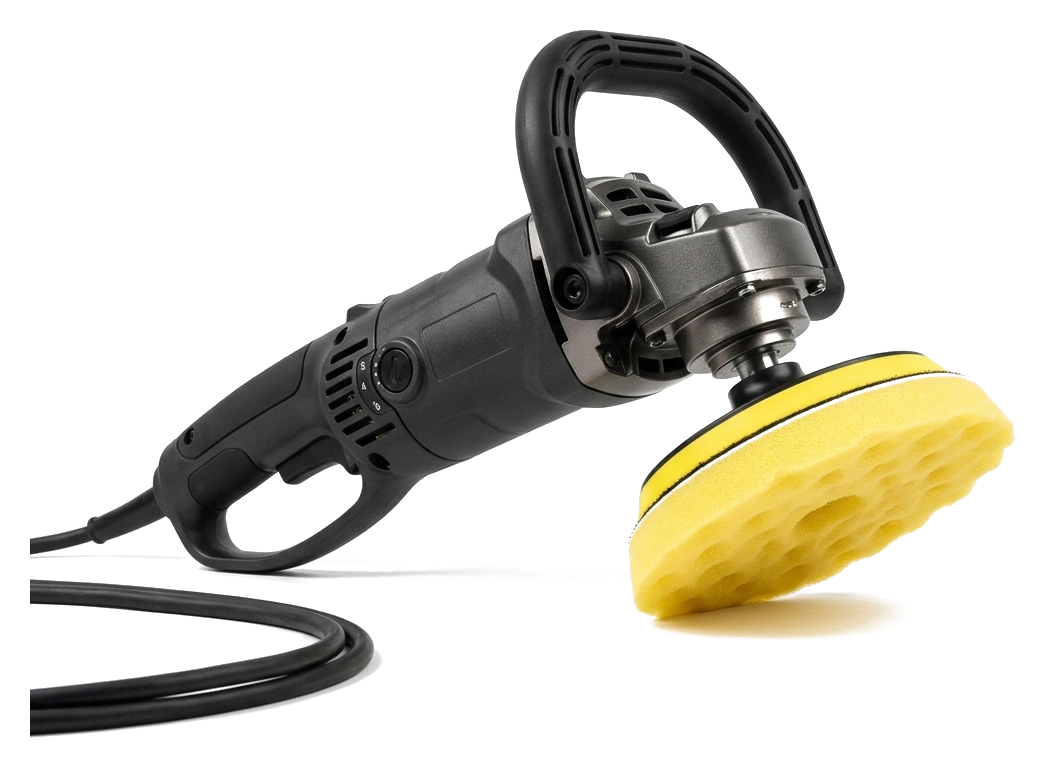
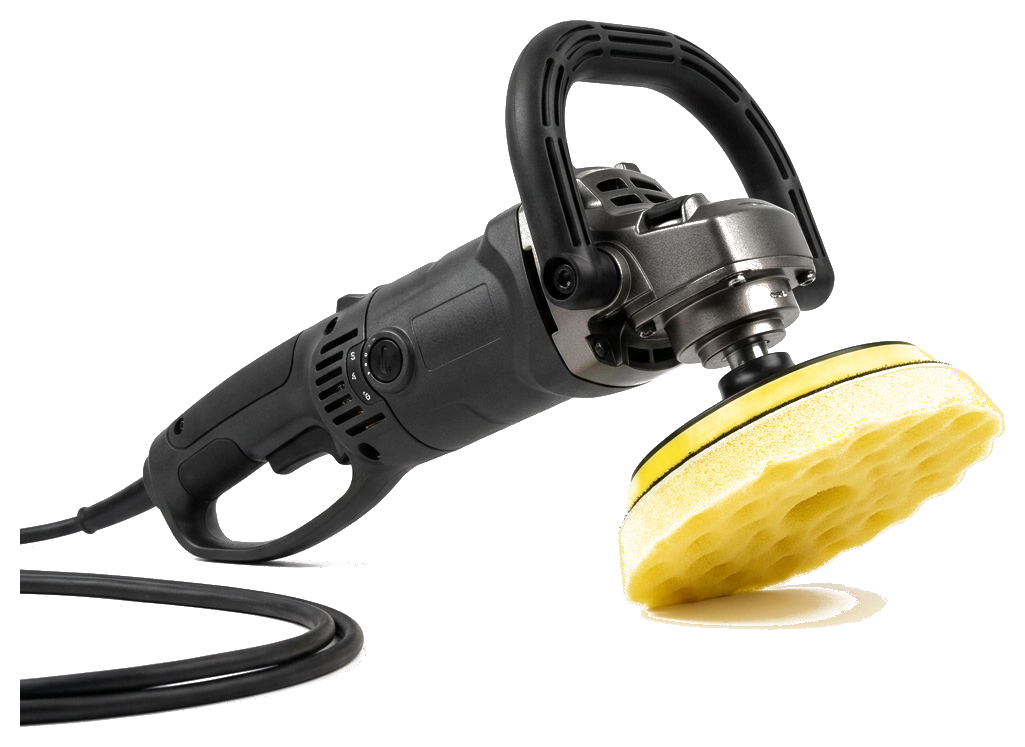
fix: render and isolate travelling process object

diff --git a/src/sections/home/TravellingObject.tsx b/src/sections/home/TravellingObject.tsx
@@ -1,7 +1,7 @@
 import React from 'react';
 
 interface TravellingObjectProps {
-  progress: number; // Normalized master progress from 0.00 (start of Approach) to 1.00 (end of Process Theatre)
+  progress: number; // Master progress from 0.00 (start of Approach) to 1.00 (end of Process Theatre)
   isReducedMotion?: boolean;
 }
 
@@ -13,73 +13,78 @@ export const TravellingObject: React.FC<TravellingObjectProps> = ({
     return null;
   }
 
-  // Master Progress Motion Mapping (0.00 to 1.00):
-  // Approach: 0.00 - 0.50 | Boundary Handoff: 0.50 | Process Theatre: 0.50 - 1.00
+  // Master Progress Trajectory Mapping (0.00 to 1.00):
+  // Approach: 0.00 - 0.45 | Boundary Crossing: 0.45 - 0.55 | Process Theatre: 0.55 - 1.00
   
-  // 1. X Position (from -25vw offscreen left -> 48vw boundary handoff -> 115vw exit right)
-  let xPct = -25;
+  // 1. X Position: -20vw (left edge of Approach) -> 48vw (boundary crossing) -> 115vw (exit right)
+  let xPct = -20;
   if (progress <= 0.15) {
-    xPct = -25 + (progress / 0.15) * 20; // -25vw -> -5vw
+    xPct = -20 + (progress / 0.15) * 15; // -20vw -> -5vw
   } else if (progress <= 0.30) {
-    xPct = -5 + ((progress - 0.15) / 0.15) * 25; // -5vw -> 20vw
+    xPct = -5 + ((progress - 0.15) / 0.15) * 23; // -5vw -> 18vw
   } else if (progress <= 0.45) {
-    xPct = 20 + ((progress - 0.30) / 0.15) * 18; // 20vw -> 38vw
-  } else if (progress <= 0.50) {
-    xPct = 38 + ((progress - 0.45) / 0.05) * 10; // 38vw -> 48vw (seamless boundary crossing)
-  } else if (progress <= 0.65) {
-    xPct = 48 + ((progress - 0.50) / 0.15) * 12; // 48vw -> 60vw
-  } else if (progress <= 0.80) {
-    xPct = 60 + ((progress - 0.65) / 0.15) * 16; // 60vw -> 76vw (Transform polishing phase)
+    xPct = 18 + ((progress - 0.30) / 0.15) * 20; // 18vw -> 38vw
+  } else if (progress <= 0.55) {
+    xPct = 38 + ((progress - 0.45) / 0.10) * 12; // 38vw -> 50vw (seamless handoff across section boundary)
+  } else if (progress <= 0.70) {
+    xPct = 50 + ((progress - 0.55) / 0.15) * 15; // 50vw -> 65vw (Inspect stage)
+  } else if (progress <= 0.85) {
+    xPct = 65 + ((progress - 0.70) / 0.15) * 15; // 65vw -> 80vw (Transform stage)
   } else if (progress <= 0.95) {
-    xPct = 76 + ((progress - 0.80) / 0.15) * 14; // 76vw -> 90vw (Reveal phase)
+    xPct = 80 + ((progress - 0.85) / 0.10) * 15; // 80vw -> 95vw (Reveal stage)
   } else {
-    xPct = 90 + ((progress - 0.95) / 0.05) * 25; // 90vw -> 115vw (Exit offscreen right)
+    xPct = 95 + ((progress - 0.95) / 0.05) * 20; // 95vw -> 115vw (Exit offscreen right)
   }
 
-  // 2. Y Offset Curve (+20px -> -30px)
-  const yOffset = 20 - progress * 50 + Math.sin(progress * Math.PI * 2) * 12;
+  // 2. Y Offset Curve (+15px -> -25px)
+  const yOffset = 15 - progress * 40 + Math.sin(progress * Math.PI * 2) * 10;
 
   // 3. Rotation (-3deg -> 0deg -> +3deg)
   const rotation = -3 + progress * 6 + Math.cos(progress * Math.PI * 2) * 2;
 
-  // 4. Scale (0.90 -> 1.0 -> 1.10 at Transform -> 0.95 exit)
+  // 4. Scale (0.90 -> 1.0 -> 1.08 peak during Transform polishing phase -> 0.90 exit)
   let scale = 0.90;
   if (progress <= 0.50) {
-    scale = 0.90 + (progress / 0.50) * 0.10; // 0.90 -> 1.0
-  } else if (progress <= 0.80) {
-    // Peak scale (1.10) during Transform stage
-    const norm = (progress - 0.50) / 0.30;
-    scale = 1.00 + Math.sin(norm * Math.PI) * 0.10;
+    scale = 0.90 + (progress / 0.50) * 0.10;
+  } else if (progress <= 0.85) {
+    const norm = (progress - 0.50) / 0.35;
+    scale = 1.00 + Math.sin(norm * Math.PI) * 0.08;
   } else {
-    scale = 1.00 - ((progress - 0.80) / 0.20) * 0.10; // 1.00 -> 0.90 exit
+    scale = 1.00 - ((progress - 0.85) / 0.15) * 0.10;
   }
 
-  // 5. Opacity (0.00 -> 1.0 -> 0.0 at final exit)
-  let opacity = 1;
-  if (progress < 0.02) {
-    opacity = progress / 0.02;
-  } else if (progress > 0.95) {
-    opacity = Math.max(0, 1 - (progress - 0.95) / 0.05);
+  // 5. Opacity (Ramps up on entry, remains 1.0 through Approach + Process, fades out at final exit)
+  let opacity = 1.0;
+  if (progress < 0.01) {
+    opacity = 0.3; // Visually present peek for initial DOM verification
+  } else if (progress > 0.96) {
+    opacity = Math.max(0, 1 - (progress - 0.96) / 0.04);
   }
 
   return (
     <div
+      data-travelling-object="true"
       className="fixed top-[42vh] left-0 pointer-events-none z-30 transition-transform duration-75 ease-out"
       style={{
         transform: `translate3d(${xPct}vw, ${yOffset}px, 0) rotate(${rotation}deg) scale(${scale})`,
         opacity: opacity,
+        visibility: 'visible',
       }}
     >
-      <div className="relative max-w-[320px] sm:max-w-[420px] md:max-w-[500px] lg:max-w-[580px]">
-        {/* Soft realistic specular drop shadow */}
+      <div className="relative max-w-[320px] sm:max-w-[420px] md:max-w-[500px] lg:max-w-[560px]">
+        {/* Soft specular drop shadow layer */}
         <div className="absolute -bottom-8 left-1/2 -translate-x-1/2 w-4/5 h-10 bg-black/60 blur-2xl rounded-full scale-y-50 pointer-events-none" />
         
-        {/* Isolated Transparent Polisher Object Image */}
-        <img
-          src="/images/process/polisher-object.webp"
-          alt="TMR Dual-Action Detailing Polisher Tool"
-          className="w-full h-auto object-contain filter drop-shadow-[0_20px_40px_rgba(0,0,0,0.6)]"
-        />
+        {/* Isolated Transparent Polisher Object Image Element */}
+        <picture>
+          <source srcSet="/images/process/polisher-object.webp" type="image/webp" />
+          <img
+            src="/images/process/polisher-object.png"
+            alt="TMR Dual-Action Detailing Polisher Tool"
+            draggable={false}
+            className="w-full h-auto object-contain filter drop-shadow-[0_20px_40px_rgba(0,0,0,0.6)]"
+          />
+        </picture>
 
         {/* LED Status Glow Indicator on Polisher Handle */}
         <div className="absolute top-[38%] left-[28%] w-2.5 h-2.5 rounded-full bg-[#FF4B00] animate-pulse shadow-[0_0_12px_#FF4B00]" />
